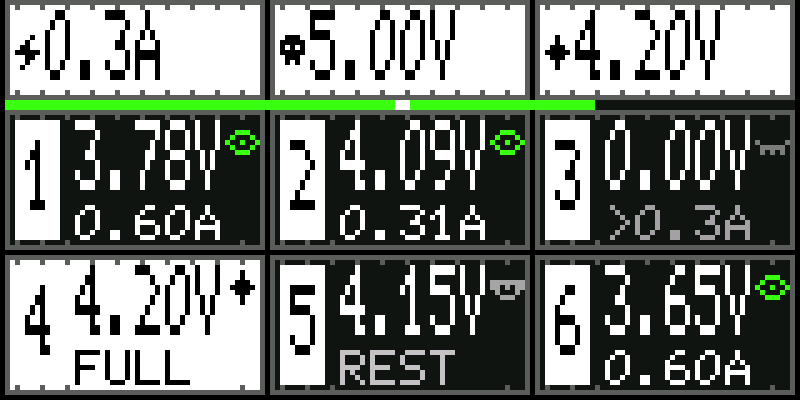
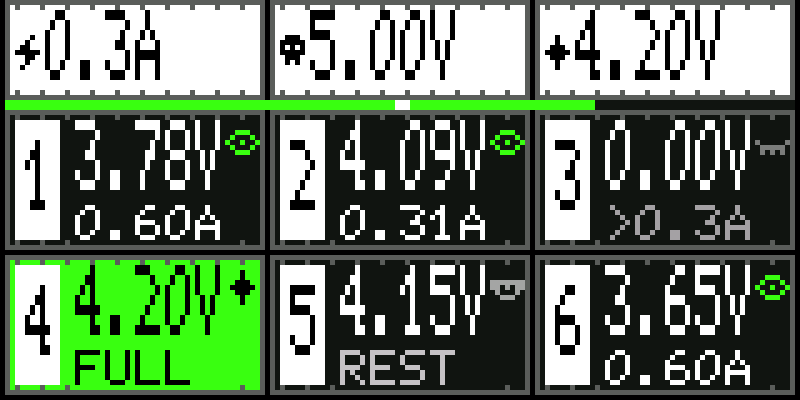
ROT: a full cell is stamped neon green
Claude-Session: https://claude.ai/code/session_013pnveF3YZMcge2pAwqWVgQ

Changed region(s): [[0.0, 0.63, 0.3438, 0.99]]

diff --git a/src/theme.c b/src/theme.c
@@ -21,9 +21,9 @@ static const CODE palette_t PAL[TH_COUNT] = {
       { 0xF800, 0x07E0, 0x033F, 0xFFE0, 0xF81F, 0x07FF },
       { 0x3186, 0xFFE0, 0xF800, 0xFE40, 0x0000, 0x033F, 0xF81F } },
     /* ROT: ink on black, SYMBIOZE.  White does the talking, neon green is alive (charging eyes), red only for trouble; running inverts the header, a full cell is
-     * stamped white.  The UI also draws this theme differently: thorned borders, eye / skull icons for the port states, poked
+     * stamped neon green.  The UI also draws this theme differently: thorned borders, eye / skull icons for the port states, poked
      * (dotted) big text and a static splash (ui.c, lcd.c).  Every state icon has its own grey so a change of icon is a change of colour. */
-    { { 0x0000, 0x10A2, 0xFFFF, 0xFFFF, 0xFFFF, 0x5AEB, 0xFFFF, 0xC618, 0xFFFF, 0xF800, 0xA514, 0xFFFF, 0x0000, 0xFFFF },
+    { { 0x0000, 0x10A2, 0xFFFF, 0xFFFF, 0xFFFF, 0x5AEB, 0xFFFF, 0xC618, 0xFFFF, 0xF800, 0xA514, 0x3FE2, 0x0000, 0xFFFF },
       { 0xFFFF, 0xFFFF, 0xFFFF, 0xFFFF, 0xFFFF, 0xFFFF },
       { 0x7BEF, 0x8410, 0x3FE2, 0xA534, 0x0000, 0x9CD3, 0xF800 } }
 };
